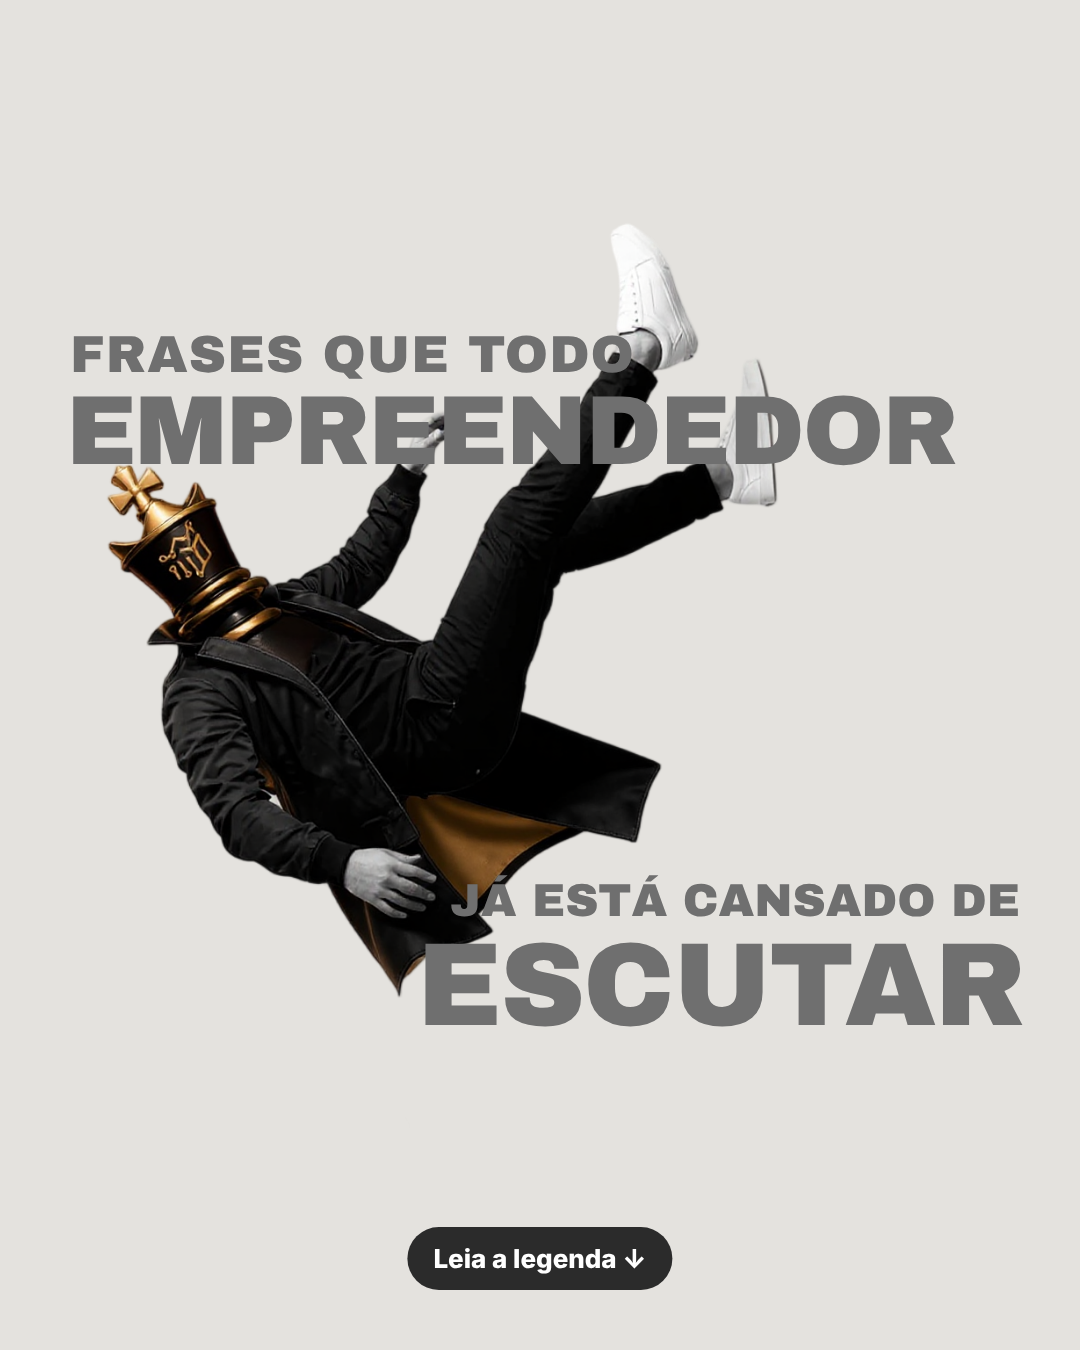
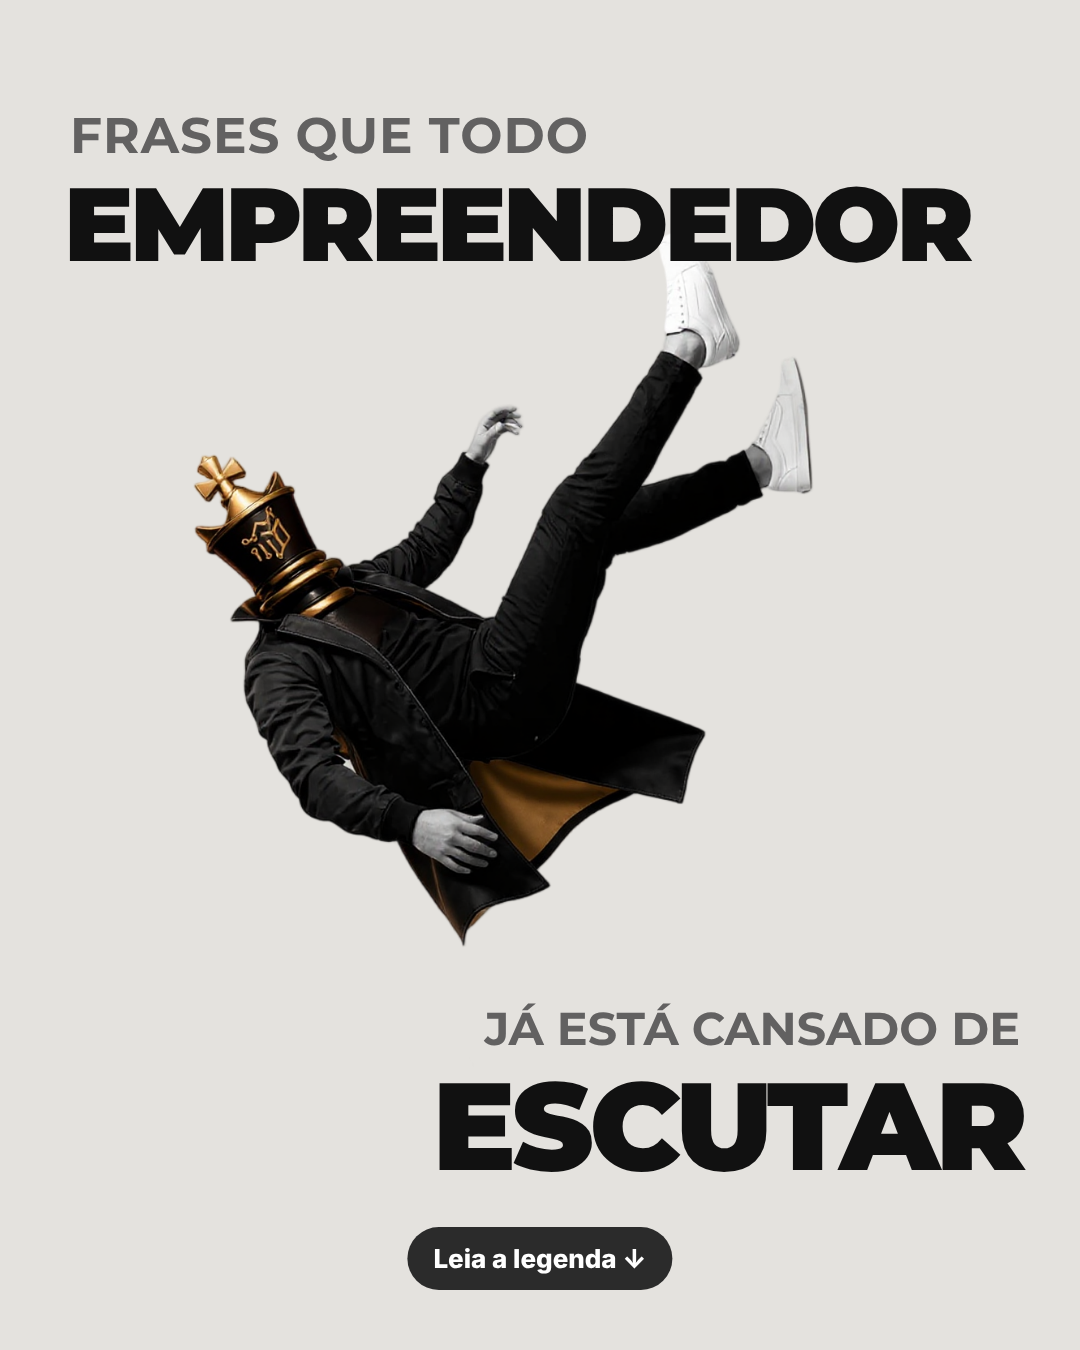
Estático 17: texto na fonte da marca, mais contraste e blocos afastados
Claude-Session: https://claude.ai/code/session_017mkQW4f9RfZB1iSbiGkvms

Changed region(s): [[0.0611, 0.0622, 0.9472, 0.8711]]

diff --git a/banco/tpl-estatico/layout-17.html b/banco/tpl-estatico/layout-17.html
@@ -1,4 +1,4 @@
-<html><head><style>
+<html><head><style>@font-face{font-family:MB;src:url(file:///home/user/producaodeconteudo/public/fonts/montserrat-latin-900-normal.woff2)}@font-face{font-family:MS;src:url(file:///home/user/producaodeconteudo/public/fonts/montserrat-latin-700-normal.woff2)}
 @font-face{font-family:A;src:url(file:///home/user/producaodeconteudo/public/fonts/anton-latin-400-normal.woff2)}
 @font-face{font-family:N;src:url(file:///home/user/producaodeconteudo/public/fonts/nunito-latin-800-normal.woff2)}
 @font-face{font-family:D;src:url(file:///home/user/producaodeconteudo/public/fonts/dm-serif-display-latin-400-normal.woff2)}
@@ -12,10 +12,10 @@ body{margin:0}#s{width:1080px;height:1350px;position:relative;overflow:hidden}
 .cta{position:absolute;font:800 30px I8;padding:16px 26px;border-radius:40px;white-space:nowrap}
 
 #s{background:#e4e2de}
-.t{position:absolute;color:#6f6f6f;font-family:AR;line-height:.95}
-.a{left:70px;top:330px;font-size:52px;letter-spacing:1px}.b{left:66px;top:385px;font-size:98px;letter-spacing:-2px}
-.c{right:60px;top:880px;font-size:46px;text-align:right}.d{right:56px;top:930px;font-size:118px;letter-spacing:-2px}
+.t{position:absolute;line-height:.95}
+.a{left:70px;top:105px;font:700 50px MS;color:#626161;letter-spacing:1px}.b{left:64px;top:160px;font:900 104px MB;color:#111;letter-spacing:-4px}
+.c{right:60px;top:1000px;font:700 46px MS;color:#626161;text-align:right}.d{right:56px;top:1050px;font:900 124px MB;color:#111;letter-spacing:-4px}
 .cta{left:50%;transform:translateX(-50%);bottom:60px;background:#2b2b2b;color:#fff;font-size:26px}
-</style></head><body><div id=s><img src="c17-cut.png" style="position:absolute;left:37%;top:51%;height:1040px;transform:translate(-50%,-50%)"><div id=tx>
+</style></head><body><div id=s><img src="c17-cut.png" style="position:absolute;left:43%;top:49%;height:960px;transform:translate(-50%,-50%)"><div id=tx>
 <div class="t a">FRASES QUE TODO</div><div class="t b">EMPREENDEDOR</div><div class="t c">JÁ ESTÁ CANSADO DE</div><div class="t d">ESCUTAR</div></div>
 <div class=cta>Leia a legenda ↓</div></div></body></html>

diff --git a/conhecimento/agentes/designer/22-feed-estatico-quebra-de-padrao.md b/conhecimento/agentes/designer/22-feed-estatico-quebra-de-padrao.md
@@ -122,3 +122,4 @@ Arquivos em `banco/tpl-estatico/` (`ref-N`, `layout-N.html`, `teste-N.png`).
 - 32 DESCARTADA pelo dono. Estático fechado: 18 aprovados (14 a 25, 27 a 31, 33); descartados 26 e 32.
 - Pente fino (19/11/2026) · 16: título em fonte chamativa (Montserrat 900, branco + rosa), nada de letra pontilhada; fundo liso (degradê suave da cor da marca, sem raios de luz): mascote recortado sobre o fundo.
 - 16: título na FONTE DA MARCA (Seguidores em Alta = Poppins), primeira letra maiúscula, centralizado.
+- 16 APROVADA (Poppins). 17 (pente fino): texto na fonte da marca (Marketing Raiz = Montserrat), palavras grandes em preto e linhas pequenas em cinza da marca, blocos afastados (um no alto, outro embaixo) para usar o espaço vazio e nunca ficar atrás do mascote.
